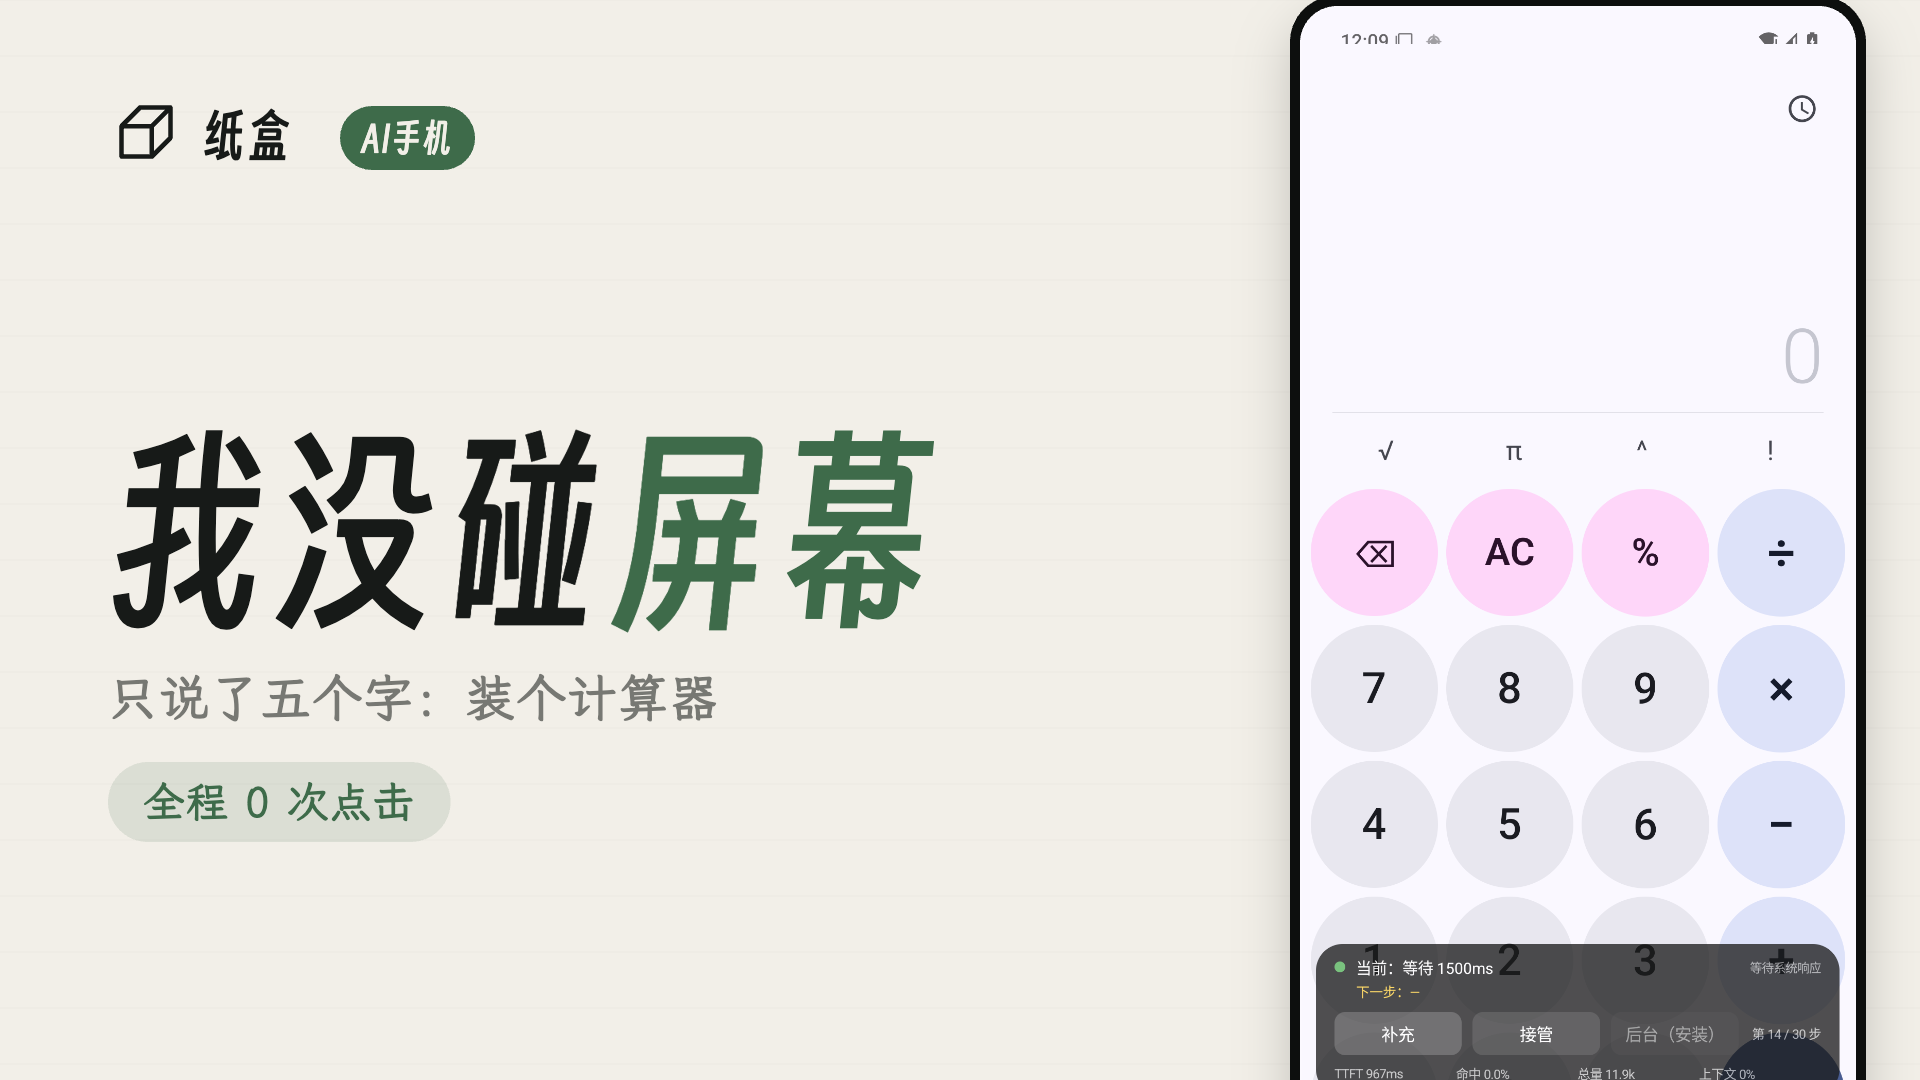
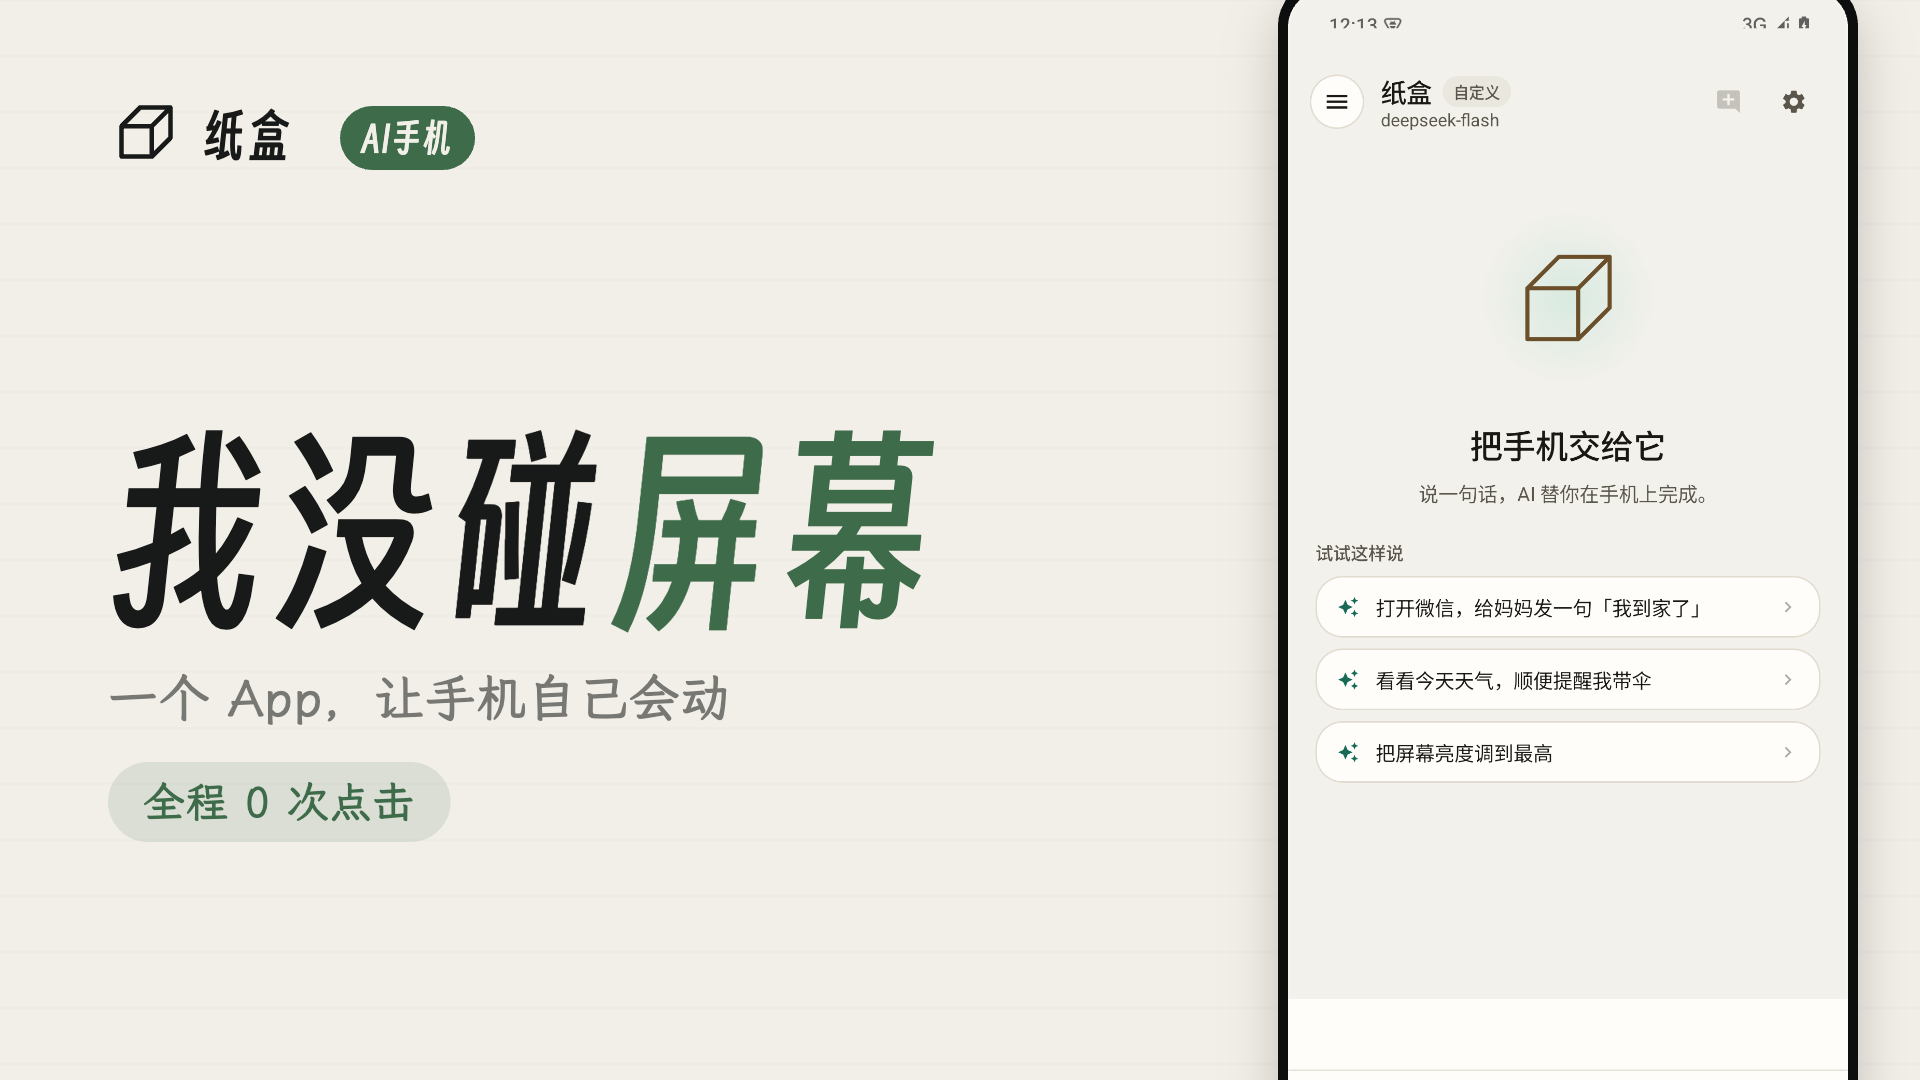
[DeepSeek-V4.1-Flash] fix(promo): B站封面换用产品主界面，不再用计算器
封面底下是计算器，观众第一眼会以为这是计算器 App 的广告。
换成纸盒自己的主界面：立方体 + 「把手机交给它 / 说一句话，AI 替你在手机上完成」
+ 三张建议卡，一眼看得出是 AI 在替你操作手机。

副文案同步改成「一个 App，让手机自己会动」。
4:3 改成左右分栏（文字两行 + 手机压右侧），16:9 保持左文右机。

Changed region(s): [[0.6562, 0.0, 0.9688, 1.0], [0.0625, 0.6111, 0.375, 0.6722], [0.7812, 0.2139, 0.8438, 0.3361]]

diff --git a/promo/cover/square.html b/promo/cover/square.html
@@ -83,7 +83,7 @@ const loadImage = src => new Promise((res, rej) => {
     document.fonts.load(F_DISP(80)), document.fonts.load(F_DISP(230)),
     document.fonts.load(F_TEXT(46)),
   ]);
-  const calc = await loadImage('../v3/assets/shots/calc.png');
+  const shot = await loadImage('../v3/assets/shots/main-empty.png');
 
   ctx.fillStyle = C.paper;
   ctx.fillRect(0, 0, W, H);
@@ -91,41 +91,37 @@ const loadImage = src => new Promise((res, rej) => {
   ctx.lineWidth = 1;
   for (let y = 0; y < H; y += 56) { ctx.beginPath(); ctx.moveTo(0, y); ctx.lineTo(W, y); ctx.stroke(); }
 
-  logo(106, 118, 76, C.ink, 4.6);
-  txt('纸盒', 160, 142, F_DISP(50), C.ink, 'left', 4);
+  logo(96, 116, 74, C.ink, 4.4);
+  txt('纸盒', 148, 140, F_DISP(48), C.ink, 'left', 4);
 
   const ktag = 'AI手机';
   ctx.font = F_DISP(34);
   const ktw = ctx.measureText(ktag).width + 50;
   ctx.fillStyle = C.green;
-  rr(292, 94, ktw, 60, 30);
+  rr(274, 92, ktw, 60, 30);
   ctx.fill();
-  txt(ktag, 292 + ktw / 2, 138, F_DISP(34), C.paper, 'center', 2);
+  txt(ktag, 274 + ktw / 2, 136, F_DISP(34), C.paper, 'center', 2);
 
-  // 主文案：一行铺满，缩到 180px 宽也认得出
-  const main = '我没碰屏幕';
-  const MS = 226;
-  ctx.font = F_DISP(MS);
-  const total = ctx.measureText(main).width + 4 * 4;
-  let x = (W - total) / 2;
-  const baseY = 452;
-  for (let i = 0; i < main.length; i++) x += txt(main[i], x, baseY, F_DISP(MS), i >= 3 ? C.green : C.ink) + 4;
+  // 主文案：两行，缩到 180px 宽也认得出
+  const MS = 212;
+  let x = 92;
+  for (const ch of '我没碰') x += txt(ch, x, 558, F_DISP(MS), C.ink) + 4;
+  x = 92;
+  for (const ch of '屏幕') x += txt(ch, x, 786, F_DISP(MS), C.green) + 4;
 
-  txt('只说了五个字：装个计算器', W / 2, 540, F_TEXT(46), C.dim, 'center', 1);
+  txt('一个 App，让手机自己会动', 96, 900, F_TEXT(44), C.dim, 'left', 1);
 
   const tag = '全程 0 次点击';
   ctx.font = F_TEXT(42);
   const tw = ctx.measureText(tag).width + 76;
   ctx.fillStyle = C.greenSoft;
-  rr((W - tw) / 2, 574, tw, 78, 39);
+  rr(96, 944, tw, 78, 39);
   ctx.fill();
-  txt(tag, W / 2, 628, F_TEXT(42), C.green, 'center', 1);
+  txt(tag, 96 + tw / 2, 998, F_TEXT(42), C.green, 'center', 1);
 
-  // 手机从下方探上来，底部出血。
-  // 只截计算器的按键区：整张屏原样放进来会有一大块白，缩到 180px 宽就什么信息都没有了。
-  const SRC_Y = 880, SRC_H = 1460;
-  const pw = 604, ph = pw * SRC_H / 1080;
-  const px = (W - pw) / 2, py = 700;
+  // 手机：右侧整机，上下都出血。放的是产品自己的主界面 —— 屏里那两行就是产品在说什么
+  const pw = 620, ph = pw * 2400 / 1080;
+  const px = W - pw + 34, py = 0;
   ctx.save();
   ctx.shadowColor = 'rgba(20,24,20,.22)';
   ctx.shadowBlur = 50; ctx.shadowOffsetY = 22;
@@ -137,7 +133,7 @@ const loadImage = src => new Promise((res, rej) => {
   ctx.save();
   rr(px, py, pw, ph, 37);
   ctx.clip();
-  ctx.drawImage(calc, 0, SRC_Y, 1080, SRC_H, px, py, pw, ph);
+  ctx.drawImage(shot, px, py, pw, ph);
   ctx.restore();
 
   ctx.save();

diff --git a/promo/cover/wide.html b/promo/cover/wide.html
@@ -83,7 +83,7 @@ const loadImage = src => new Promise((res, rej) => {
     document.fonts.load(F_DISP(80)), document.fonts.load(F_DISP(200)),
     document.fonts.load(F_TEXT(40)),
   ]);
-  const calc = await loadImage('../v3/assets/shots/calc.png');
+  const shot = await loadImage('../v3/assets/shots/main-empty.png');
 
   ctx.fillStyle = C.paper;
   ctx.fillRect(0, 0, W, H);
@@ -109,7 +109,7 @@ const loadImage = src => new Promise((res, rej) => {
   const baseY = 612;
   for (let i = 0; i < main.length; i++) x += txt(main[i], x, baseY, F_DISP(MS), i >= 3 ? C.green : C.ink) + 4;
 
-  txt('只说了五个字：装个计算器', 108, 716, F_TEXT(50), C.dim, 'left', 1);
+  txt('一个 App，让手机自己会动', 108, 716, F_TEXT(50), C.dim, 'left', 1);
 
   const tag = '全程 0 次点击';
   ctx.font = F_TEXT(42);
@@ -120,8 +120,8 @@ const loadImage = src => new Promise((res, rej) => {
   txt(tag, 108 + tw / 2, 817, F_TEXT(42), C.green, 'center', 1);
 
   // 手机（右侧，底部出血）
-  const pw = 556, ph = pw * 2400 / 1080;
-  const px = 1300, py = 6;
+  const pw = 560, ph = pw * 2400 / 1080;
+  const px = 1288, py = -10;
   ctx.save();
   ctx.shadowColor = 'rgba(20,24,20,.22)';
   ctx.shadowBlur = 52; ctx.shadowOffsetY = 24;
@@ -133,7 +133,7 @@ const loadImage = src => new Promise((res, rej) => {
   ctx.save();
   rr(px, py, pw, ph, 37);
   ctx.clip();
-  ctx.drawImage(calc, px, py, pw, ph);
+  ctx.drawImage(shot, px, py, pw, ph);
   ctx.restore();
 
   ctx.save();

diff --git a/promo/cover/发布信息.md b/promo/cover/发布信息.md
@@ -7,13 +7,14 @@
 | **首页 / 分区列表** | `cover-4x3.png` | 1600×1200（4:3） |
 | **播放页 / 推荐流** | `cover-16x9.png` | 1920×1080（16:9） |
 
-两张同一套版式：绿色「AI手机」标签 + 主文案「我没碰屏幕」+ 真机截图。
+两张同一套版式：绿色「AI手机」标签 + 主文案「我没碰屏幕」+ 产品主界面截图。
 
 **两张的差别不只是裁切**：
 
-- 4:3 用在列表页，缩略图最小（PC 约 180×135），所以文字占满上半屏、手机只从下方探出来
-- 4:3 的手机**只截了计算器按键区**，整屏原样放进来会有一大块白，缩到 180px 宽就什么都没了
-- 16:9 用在播放页，空间宽，走"左文右机"，手机完整入画
+- 4:3 用在列表页，缩略图最小（PC 约 180×135），所以手机压右侧、文字占左边两行，字号 212
+- 16:9 用在播放页，空间宽，左文右机，手机完整入画
+- 手机里放的是**纸盒自己的主界面**（「把手机交给它 / 说一句话，AI 替你在手机上完成」+ 三张建议卡），
+  不是某个被操作的第三方 App —— 封面要说的是"这是台 AI 手机"，不是"这是个计算器"
 
 ## 标题（选一个）
 
